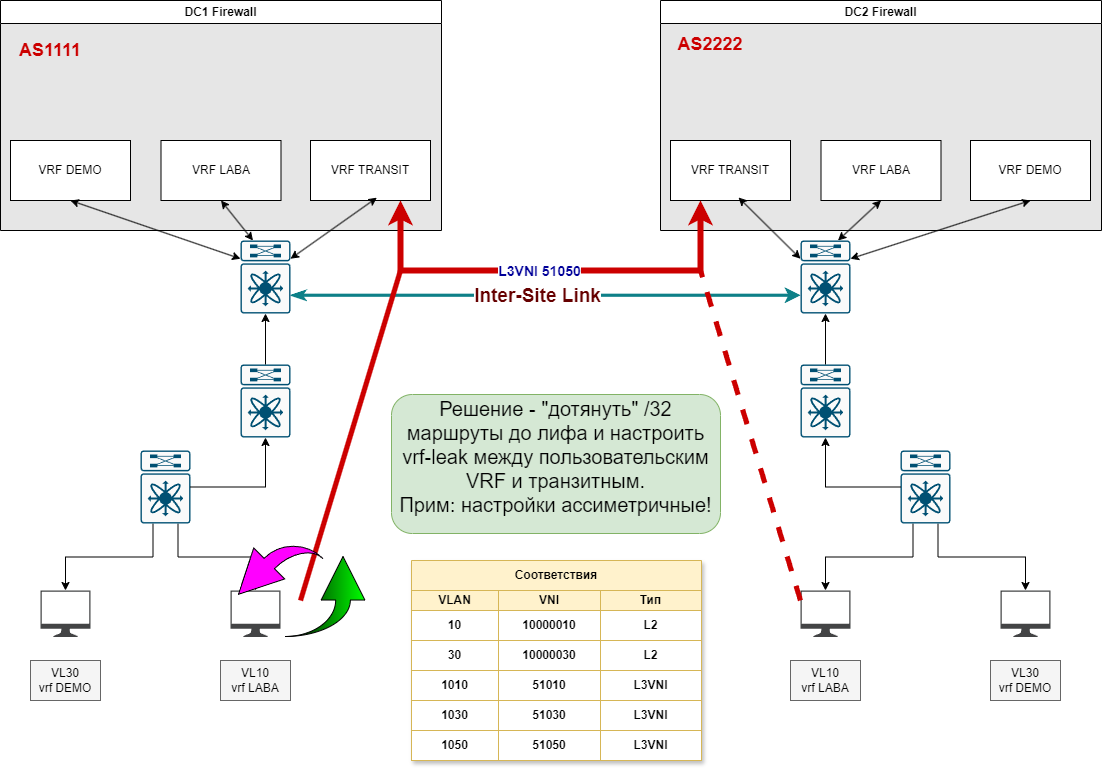
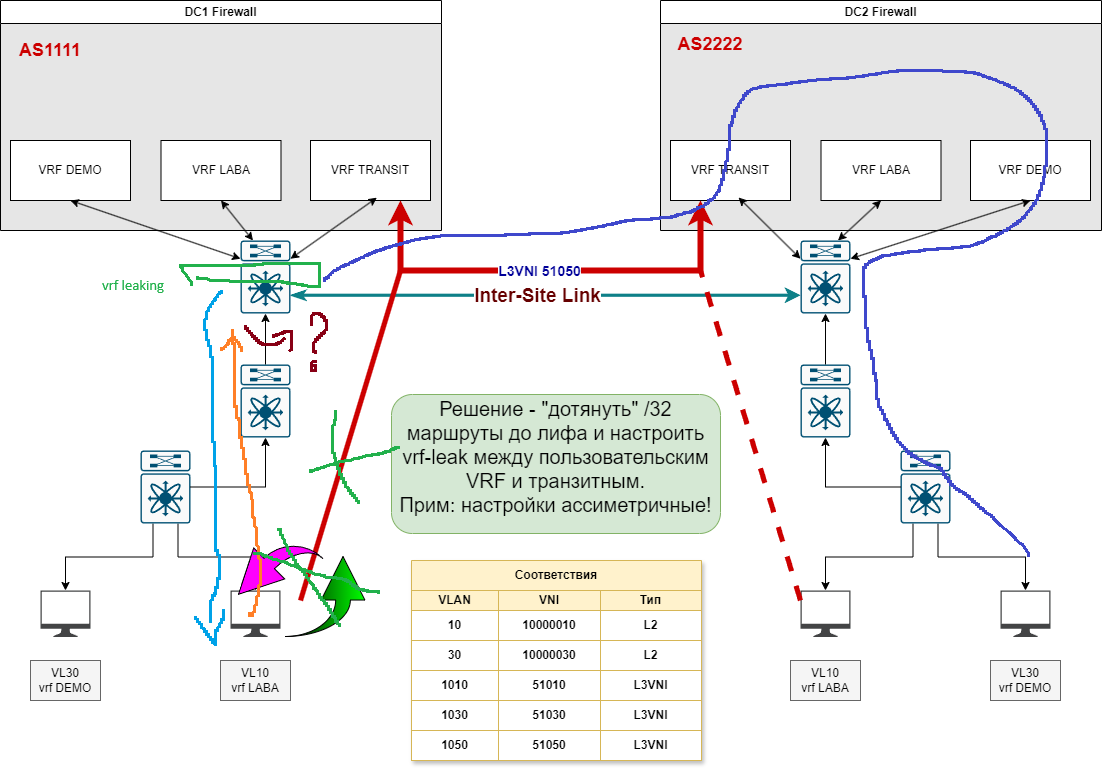
WIP: No work -no back trafic with C1L-BGW-R1

diff --git a/Data-Center-Network-Ddesign-Course/Project/README.md b/Data-Center-Network-Ddesign-Course/Project/README.md
@@ -1295,8 +1295,8 @@ Leaf-R2#
 C1L-Leaf-R3# sh run
 
 !Command: show running-config
-!Running configuration last done at: Fri Feb 14 13:54:22 2025
-!Time: Fri Feb 14 14:07:38 2025
+!Running configuration last done at: Sat Feb 15 04:40:15 2025
+!Time: Sat Feb 15 05:20:03 2025
 
 version 10.3(5) Bios:version  
 hostname C1L-Leaf-R3
@@ -1379,9 +1379,6 @@ vrf context LABA
   address-family ipv4 unicast
     route-target both auto
     route-target both auto evpn
-    route-target import 50:11
-    route-target import 50:11 evpn
-    import map only_32_prefix_external
 vrf context TRANSIT
   vni 51050
   rd auto
@@ -1439,12 +1436,7 @@ interface Vlan1030
 
 interface Vlan1050
   description L3VNI for vrf TRANSIT
-  no shutdown
   mtu 9216
-  vrf member TRANSIT
-  no ip redirects
-  ip forward
-  no ipv6 redirects
 
 interface nve1
   no shutdown
@@ -1454,10 +1446,8 @@ interface nve1
   global ingress-replication protocol bgp
   member vni 51010 associate-vrf
   member vni 51030 associate-vrf
-  member vni 51050 associate-vrf
   member vni 10000010
   member vni 10000030
-  member vni 10000050
 
 interface Ethernet1/1
   description to_spine_1
@@ -2674,8 +2664,8 @@ Spine-R2#
 C1L-Bgw-R1# sh run
 
 !Command: show running-config
-!Running configuration last done at: Fri Feb 14 13:56:39 2025
-!Time: Fri Feb 14 14:09:12 2025
+!Running configuration last done at: Sat Feb 15 04:47:35 2025
+!Time: Sat Feb 15 05:22:23 2025
 
 version 10.3(5) Bios:version  
 hostname C1L-Bgw-R1
@@ -2742,17 +2732,27 @@ ip prefix-list only_32_prefix description Allow only client host ip as /32 prefi
 ip prefix-list only_32_prefix seq 10 permit 0.0.0.0/0 eq 32 
 ip prefix-list outbound-no-host description Allow only CIDR prefix send to router
 ip prefix-list outbound-no-host seq 10 deny 0.0.0.0/0 eq 32 
-ip prefix-list outbound-no-host seq 20 permit 0.0.0.0/0 le 32 
+ip prefix-list outbound-no-host seq 20 permit 0.0.0.0/0 le 31 
 ip as-path access-list BGP_ONLY_INTERNAL seq 1 permit "^$"
 ip as-path access-list bgp_trans_in seq 10 permit "_1111$"
 ip as-path access-list bgp_trans_out seq 10 permit "_2222$"
+ip as-path access-list only_extenal_as seq 10 permit "_2222$"
+route-map BGP_EXT_PREF permit 10
+  set local-preference 50
 route-map BGP_LOCAL_PREF permit 10
   set local-preference 100
 route-map RM-BGP-DIRECT permit 10
 route-map bgp_trans_pref permit 10
   set local-preference 50
+route-map only_32_prefix_external permit 10
+  match as-path only_extenal_as 
+  match ip address prefix-list only_32_prefix 
+route-map only_32_prefix_external deny 20
+  match as-path only_extenal_as 
+route-map only_32_prefix_external permit 50
 route-map only_32_prefix_to_transit permit 10
   match ip address prefix-list only_32_prefix 
+  match evpn route-type 5 
 key chain ISIS
   key 1
     key-string 7 070c285f4d064b0916100a
@@ -2763,8 +2763,6 @@ vrf context DEMO
   address-family ipv4 unicast
     route-target both auto
     route-target both auto evpn
-    route-target export 101:30
-    route-target export 101:30 evpn
 vrf context LABA
   vni 51010
   rd auto
@@ -2777,14 +2775,10 @@ vrf context TRANSIT
   address-family ipv4 unicast
     route-target both auto
     route-target both auto evpn
-    route-target import 101:10
-    route-target import 101:10 evpn
-    route-target import 101:30
-    route-target import 101:30 evpn
-    route-target import 50:12
-    route-target import 50:12 evpn
-    route-target export 50:11
-    route-target export 50:11 evpn
+    route-target import 65010:51010
+    route-target import 65010:51010 evpn
+    route-target import 65010:51030
+    route-target import 65010:51030 evpn
     import map only_32_prefix_to_transit
 vrf context VRF_VPC_KEEPALIVE
   address-family ipv4 unicast
@@ -2797,10 +2791,6 @@ hardware profile tcam resource service-template LEAF_TCAM_CARVE
 
 
 interface Vlan1
-
-interface Vlan50
-  vrf member TRANSIT
-  ip address 10.105.1.2/24
 
 interface Vlan1010
   description L3VNI for vrf LABA
@@ -2860,8 +2850,6 @@ interface nve1
     multisite ingress-replication
   member vni 10000030
     multisite ingress-replication
-  member vni 10000050
-    multisite ingress-replication
 
 interface Ethernet1/1
   description ** Fabric Internal to_Spine-R1 **
@@ -2912,7 +2900,8 @@ interface Ethernet1/8
 interface Ethernet1/9
   description to_wan
   switchport mode trunk
-  switchport trunk allowed vlan 50,1310,1330,1350
+  switchport trunk allowed vlan 1310,1330,1350
+  mtu 9216
   speed 1000
   duplex full
 
@@ -3048,7 +3037,7 @@ interface loopback2
 interface loopback50
   description * VRF TRANSIT *
   vrf member TRANSIT
-  ip address 10.101.8.8/32
+  ip address 10.101.8.9/32
 
 interface loopback100
   description Multi-Site VIP
@@ -3130,7 +3119,7 @@ router bgp 65010
       description COD-1-Router
       address-family ipv4 unicast
         prefix-list bgp_only_net in
-        prefix-list bgp_only_net out
+        no prefix-list bgp_only_net out
         filter-list BGP_ONLY_INTERNAL out
         route-map BGP_LOCAL_PREF in
   vrf LABA
@@ -3148,6 +3137,7 @@ router bgp 65010
   vrf TRANSIT
     router-id 172.24.1.49
     address-family ipv4 unicast
+      redistribute hmm route-map RM-BGP-DIRECT
       redistribute direct route-map RM-BGP-DIRECT
     neighbor 172.24.1.50
       inherit peer Firewall
@@ -3157,6 +3147,7 @@ router bgp 65010
         no prefix-list bgp_only_net out
         filter-list bgp_trans_in in
         filter-list BGP_ONLY_INTERNAL out
+        route-map BGP_EXT_PREF in
 
 
 
@@ -3172,9 +3163,9 @@ C1L-Bgw-R1#
 Cod1-FW-R1#sh run br
 Building configuration...
 
-Current configuration : 6087 bytes
+Current configuration : 6118 bytes
 !
-! Last configuration change at 02:01:28 PRM Fri Feb 14 2025
+! Last configuration change at 04:42:55 PRM Sat Feb 15 2025
 !
 version 15.7
 service timestamps debug datetime msec
@@ -3408,6 +3399,7 @@ router bgp 1111
  neighbor 172.24.1.5 as-override
  neighbor 172.24.1.49 remote-as 65010
  neighbor 172.24.1.49 description BRD_Leaf_VRF_TRANSIT
+ neighbor 172.24.1.49 shutdown
  neighbor 172.24.1.49 timers 7 21
  neighbor 172.24.1.49 send-community both
  neighbor 172.24.1.49 as-override
@@ -3488,12 +3480,10 @@ Cod1-FW-R1#
 <summary>Cod2-FW-R1</summary>
 
 ```text
-Cod2-FW-R1#sh run br
+Cod2-FW-R1#sh run
 Building configuration...
 
-Current configuration : 6702 bytes
-!
-! Last configuration change at 01:17:41 PRM Fri Feb 14 2025
+Current configuration : 6640 bytes
 !
 version 15.7
 service timestamps debug datetime msec
@@ -3536,9 +3526,9 @@ no ip icmp rate-limit unreachable
 
 
 !
+!
+!
 !         
-!
-!
 no ip domain lookup
 ip cef
 login on-success log
@@ -3559,9 +3549,9 @@ object-group network RFC1918
  172.16.0.0 255.240.0.0
  10.0.0.0 255.0.0.0
 !
-!         
-redundancy
 !
+redundancy
+!         
 no cdp log mismatch duplex
 !
 ip tcp synwait-time 5
@@ -3833,8 +3823,8 @@ Cod2-FW-R1#
 C2L-Bgw-R1# sh run
 
 !Command: show running-config
-!Running configuration last done at: Fri Feb 14 12:41:31 2025
-!Time: Fri Feb 14 14:13:46 2025
+!Running configuration last done at: Sat Feb 15 04:28:26 2025
+!Time: Sat Feb 15 05:25:25 2025
 
 version 10.3(5) Bios:version  
 hostname C2L-Bgw-R1
@@ -3896,6 +3886,8 @@ ip prefix-list bgp_only_host seq 10 permit 0.0.0.0/0 eq 32
 ip prefix-list bgp_only_net description Allow only CIDR prefix
 ip prefix-list bgp_only_net seq 10 deny 0.0.0.0/0 eq 32 
 ip prefix-list bgp_only_net seq 20 permit 0.0.0.0/0 le 31 
+ip prefix-list only_32_prefix description Allow only client host ip as /32 prefix
+ip prefix-list only_32_prefix seq 10 permit 0.0.0.0/0 eq 32 
 ip prefix-list outbound-no-host description Allow only CIDR prefix send to router
 ip prefix-list outbound-no-host seq 10 deny 0.0.0.0/0 eq 32 
 ip prefix-list outbound-no-host seq 20 permit 0.0.0.0/0 le 32 
@@ -3907,6 +3899,8 @@ route-map BGP_LOCAL_PREF permit 10
 route-map BGP_NO_PREF permit 10
   set local-preference 50
 route-map RM-BGP-DIRECT permit 10
+route-map only_32_prefix_to_transit permit 10
+  match ip address prefix-list only_32_prefix 
 key chain ISIS
   key 1
     key-string 7 072c0e681c
@@ -3916,26 +3910,21 @@ vrf context DEMO
   address-family ipv4 unicast
     route-target both auto
     route-target both auto evpn
-    route-target export 102:30
-    route-target export 102:30 evpn
 vrf context LABA
   vni 51010
   rd auto
   address-family ipv4 unicast
     route-target both auto
     route-target both auto evpn
-    route-target export 102:10
-    route-target export 102:10 evpn
 vrf context TRANSIT
   vni 51050
   rd auto
   address-family ipv4 unicast
-    route-target import 102:51010 evpn
-    route-target import 102:51030 evpn
-    route-target import 50:11
-    route-target import 50:11 evpn
-    route-target export 50:12
-    route-target export 50:12 evpn
+    route-target both auto
+    route-target both auto evpn
+    route-target import 65010:51050
+    route-target import 65010:51050 evpn
+    import map only_32_prefix_to_transit
 vrf context management
 hardware profile tcam resource template LEAF_TCAM_CARVE ref-template nfe
   racl 256
@@ -3945,10 +3934,6 @@ hardware profile tcam resource service-template LEAF_TCAM_CARVE
 
 
 interface Vlan1
-
-interface Vlan50
-  vrf member TRANSIT
-  ip address 10.105.1.2/24
 
 interface Vlan1010
   description L3VNI for vrf LABA
@@ -4014,8 +3999,6 @@ interface nve1
     multisite ingress-replication
   member vni 10000030
     multisite ingress-replication
-  member vni 10000050
-    multisite ingress-replication
 
 interface Ethernet1/1
   description **Fabric Internal to_COD-2_Spine-R1 **
@@ -4067,6 +4050,7 @@ interface Ethernet1/9
   description to_wan
   switchport mode trunk
   switchport trunk allowed vlan 1310,1330,1350
+  mtu 9216
   speed 1000
   duplex full
 
@@ -4292,11 +4276,11 @@ router bgp 65012
       address-family ipv4 unicast
         prefix-list bgp_only_host in
         filter-list bgp_trans_in in
-        filter-list bgp_trans_out out
+        no filter-list bgp_trans_out out
 
 
 
-C2L-Bgw-R1#
+C2L-Bgw-R1# 
 ```
 
 </details>
@@ -4579,7 +4563,7 @@ C2L-Leaf-R1# sh run
 
 !Command: show running-config
 !No configuration change since last restart
-!Time: Fri Feb 14 14:54:18 2025
+!Time: Sat Feb 15 05:26:59 2025
 
 version 10.3(5) Bios:version  
 hostname C2L-Leaf-R1
